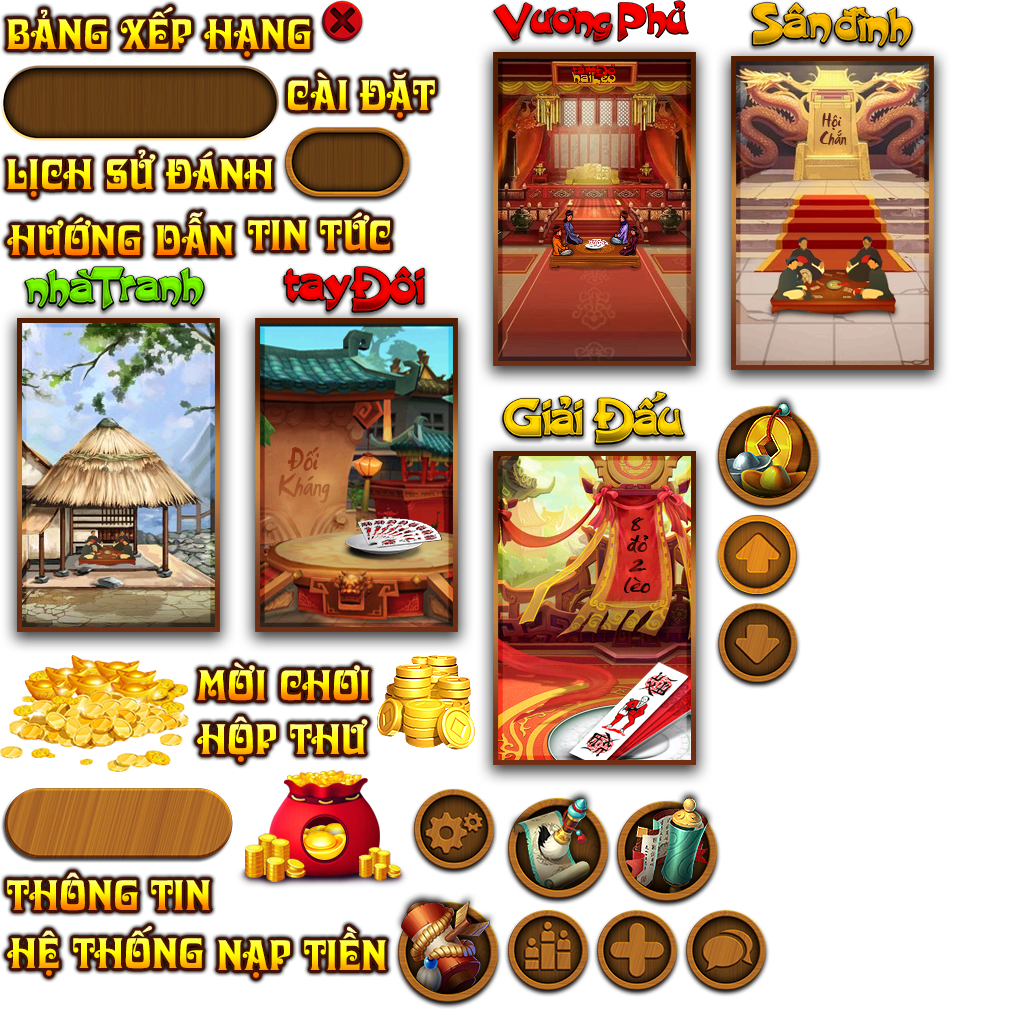
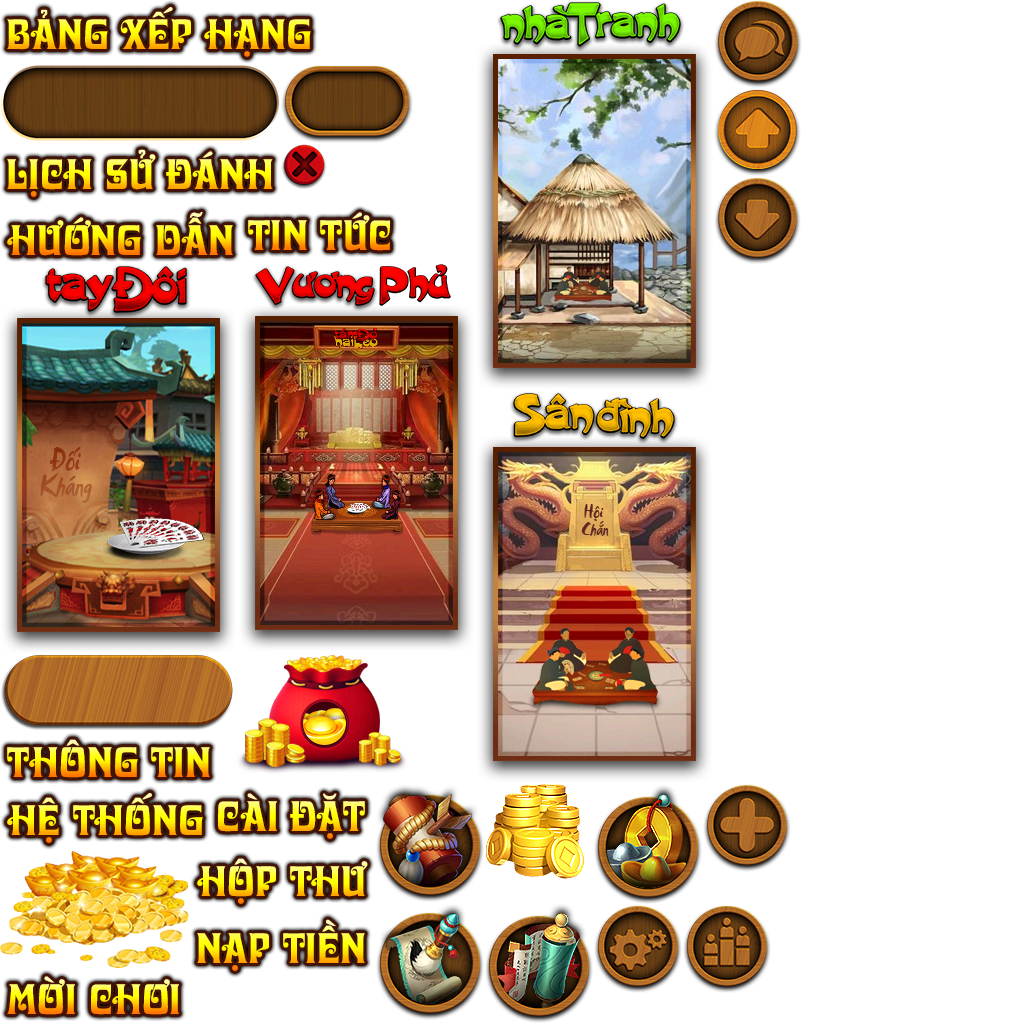
Remove tour image

diff --git a/Classes/MainScene.cpp b/Classes/MainScene.cpp
@@ -25,10 +25,12 @@ void MainScene::onInit()
 	}
 
 	std::vector<Vec2> vecZonePos;
-	int numbOfZoneBtns = 5;
-	dx = winSize.width / numbOfZoneBtns;
+	int numbOfZoneBtns = 4;
+	int padding = 200 * pow(scaleScene.x, 5);
+	float scaleZone = 1 / scaleScene.x;
+	dx = (winSize.width - padding) / numbOfZoneBtns;
 	for (int i = 0; i < numbOfZoneBtns; i++) {
-		vecZonePos.push_back(Vec2(dx / 2 + i * dx, winSize.height / 2));
+		vecZonePos.push_back(Vec2(dx / 2 + padding / 2 + i * dx, winSize.height / 2));
 	}
 
 	initHeaderWithInfos();
@@ -161,6 +163,7 @@ void MainScene::onInit()
 	circleNewMail->setScale(.7f);
 	circleNewMail->setVisible(false);
 	mLayer->addChild(circleNewMail);
+	autoScaleNode(circleNewMail);
 
 	lbNewMail = Label::create("", "fonts/myriad.ttf", 25);
 	lbNewMail->setPosition(circleNewMail->getContentSize().width / 2 - 4, circleNewMail->getContentSize().height / 2);
@@ -198,7 +201,7 @@ void MainScene::onInit()
 
 	ui::Button* btnNhaTranh = ui::Button::create("nha_tranh.png", "", "", ui::Widget::TextureResType::PLIST);
 	btnNhaTranh->setPosition(vecZonePos[0]);
-	//btnNhaTranh->setScale(.95f);
+	btnNhaTranh->setScale(scaleZone);
 	addTouchEventListener(btnNhaTranh, [=]() {
 		if (isWaiting) return;
 		showWaiting();
@@ -211,7 +214,7 @@ void MainScene::onInit()
 
 	ui::Button* btnDinhLang = ui::Button::create("dinhlang.png", "", "", ui::Widget::TextureResType::PLIST);
 	btnDinhLang->setPosition(vecZonePos[1]);
-	//btnDinhLang->setScale(.95f);
+	btnDinhLang->setScale(scaleZone);
 	addTouchEventListener(btnDinhLang, [=]() {
 		if (isWaiting) return;
 		showWaiting();
@@ -224,7 +227,7 @@ void MainScene::onInit()
 
 	ui::Button* btnPhuChua = ui::Button::create("phuchua.png", "", "", ui::Widget::TextureResType::PLIST);
 	btnPhuChua->setPosition(vecZonePos[2]);
-	//btnPhuChua->setScale(.95f);
+	btnPhuChua->setScale(scaleZone);
 	addTouchEventListener(btnPhuChua, [=]() {
 		if (isWaiting) return;
 		showWaiting();
@@ -237,7 +240,7 @@ void MainScene::onInit()
 
 	ui::Button* btnLoiDai = ui::Button::create("dtd.png", "", "", ui::Widget::TextureResType::PLIST);
 	btnLoiDai->setPosition(vecZonePos[3]);
-	//btnLoiDai->setScale(.95f);
+	btnLoiDai->setScale(scaleZone);
 	addTouchEventListener(btnLoiDai, [=]() {
 		if (isWaiting) return;
 		showWaiting();
@@ -248,19 +251,19 @@ void MainScene::onInit()
 	mLayer->addChild(btnLoiDai);
 	autoScaleNode(btnLoiDai);
 
-	ui::Button* btnGiaiDau = ui::Button::create("giaidau.png", "", "", ui::Widget::TextureResType::PLIST);
-	btnGiaiDau->setPosition(vecZonePos[4]);
-	//btnGiaiDau->setScale(.95f);
-	addTouchEventListener(btnGiaiDau, [=]() {
-		/*if (isWaiting) return;
-		showWaiting();
-		tmpZoneId = 4;
-		isGoToLobby = true;
-		SFSRequest::getSingleton().Disconnect();*/
-		showPopupNotice(Utils::getSingleton().getStringForKey("feature_coming_soon"), [=] {});
-	});
-	mLayer->addChild(btnGiaiDau);
-	autoScaleNode(btnGiaiDau);
+	//ui::Button* btnGiaiDau = ui::Button::create("giaidau.png", "", "", ui::Widget::TextureResType::PLIST);
+	//btnGiaiDau->setPosition(vecZonePos[4]);
+	////btnGiaiDau->setScale(.95f);
+	//addTouchEventListener(btnGiaiDau, [=]() {
+	//	/*if (isWaiting) return;
+	//	showWaiting();
+	//	tmpZoneId = 4;
+	//	isGoToLobby = true;
+	//	SFSRequest::getSingleton().Disconnect();*/
+	//	showPopupNotice(Utils::getSingleton().getStringForKey("feature_coming_soon"), [=] {});
+	//});
+	//mLayer->addChild(btnGiaiDau);
+	//autoScaleNode(btnGiaiDau);
 
 	initEventView(Vec2(0, winSize.height - 125), Size(winSize.width, 40));
 
